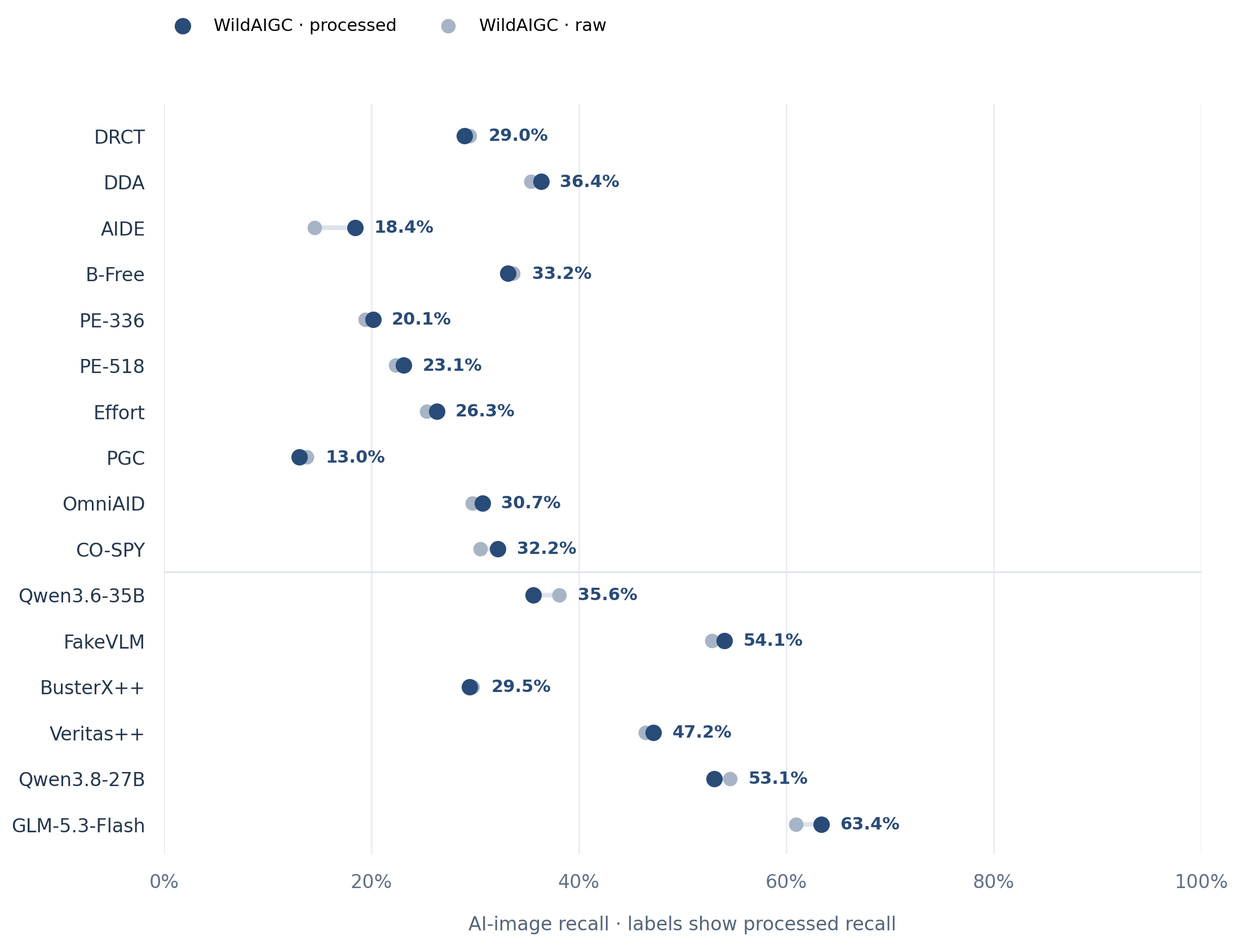
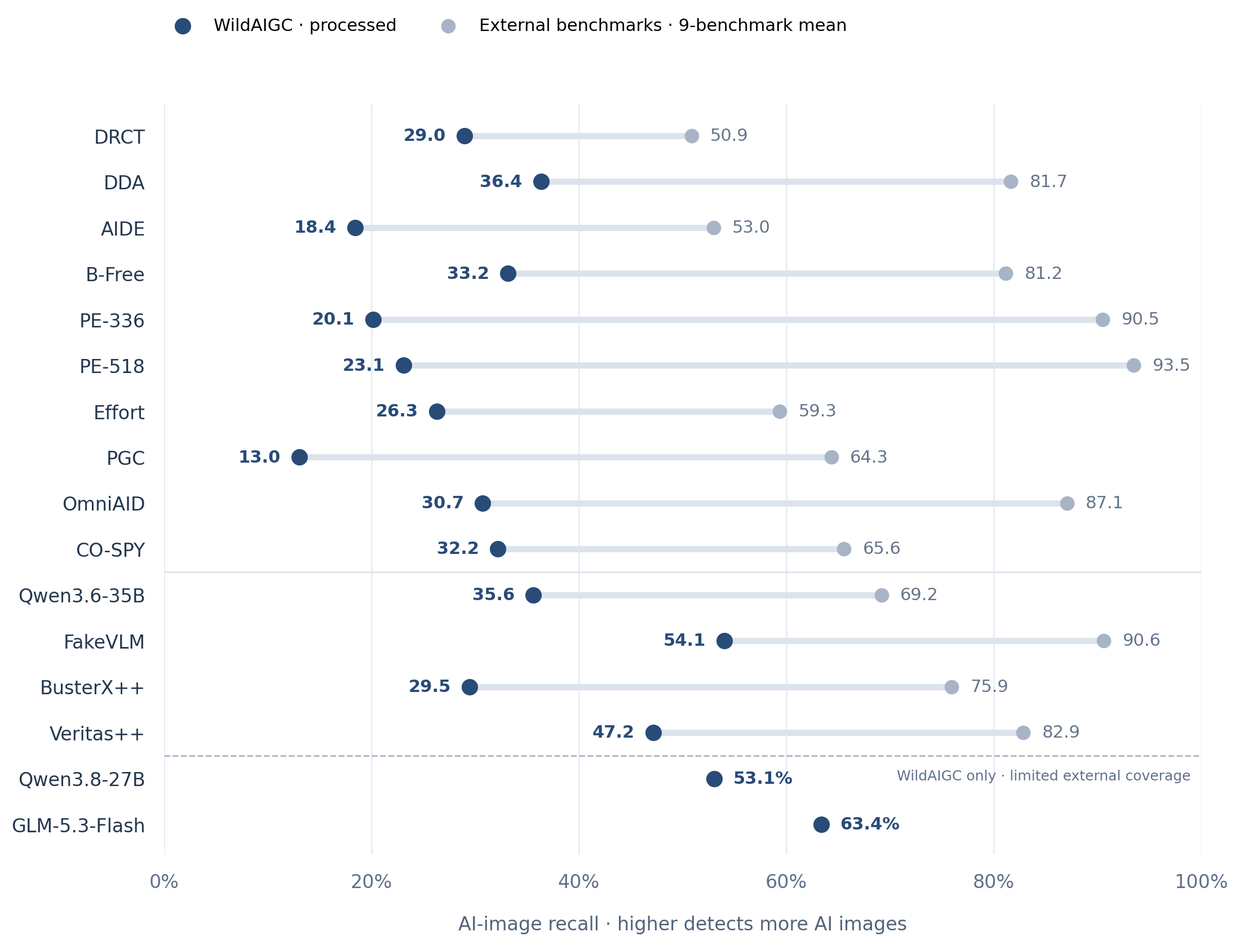
Restore external comparisons for models with shared benchmark coverage

diff --git a/index.html b/index.html
@@ -2,5 +2,5 @@
 <html lang="en"><head><meta charset="utf-8"><meta name="viewport" content="width=device-width,initial-scale=1"><meta name="description" content="WildAIGC-Bench: 407 human-reviewed AI-generated and edited images from real-world online circulation, with evidence-linked metadata, raw and cropped versions, and detector evaluations."><meta name="theme-color" content="#344b70"><title>WildAIGC-Bench · A Hard In-the-Wild AIGC Detection Benchmark</title><link rel="stylesheet" href="./style.css?v=20261013h"><script src="./app.js?v=20261013h" defer></script></head><body>
 <a class="skip-link" href="#overview">Skip to content</a>
 <header class="nav"><a class="brand" href="#top"><span class="brand-mark" aria-hidden="true">W<span>AI</span></span>WildAIGC-Bench</a><nav aria-label="Main navigation"><a href="#dataset">Examples</a><a href="#evaluation">Results</a><a href="#construction">Construction</a><a href="#statistics">Statistics</a><a class="nav-resource" href="#resources">Resources ↗</a></nav></header>
-<main id="top"><section class="hero"><div class="eyebrow"><span class="status-dot"></span> VERSION 1.0 · 407 HUMAN-REVIEWED IMAGES</div><h1>WildAIGC-Bench</h1><p class="hero-subtitle">AI images behind real news events and online claims.<br>A hard test for today’s detectors.</p><p class="hero-copy">AI-generated and edited images from real news events and online claims, where fabricated content can mislead, enable scams or fuel public controversy. Human-confirmed labels and real circulation conditions make this a challenging test for image detectors.</p><div class="actions"><a class="button primary" href="https://huggingface.co/datasets/yuzj1997yzj/WildAIGC-Bench" target="_blank" rel="noopener noreferrer">Dataset on Hugging Face ↗</a><a class="button" href="https://github.com/YuZijian/WildAIGC-Bench" target="_blank" rel="noopener noreferrer">GitHub ↗</a><button class="button disabled" disabled>Technical report <span>Coming soon</span></button></div><p class="release-status">Dataset publicly available · Technical report in preparation</p></section><section id="overview" class="section overview concise-overview"><div class="benchmark-highlights"><article><span class="highlight-index">REAL-WORLD RISKS</span><h3>Real events, real-world risks</h3><p>AI imagery tied to real news events and online claims, with the potential to mislead, enable scams or fuel public controversy. The collection focuses on consequential fakes, rather than showcases of image-generation capability.</p></article><article><span class="highlight-index">VERIFIED AI LABELS</span><h3>Human-verified, evidence-supported</h3><p>Every image is manually confirmed as AI-generated or edited, supported by creator disclosures, visible generation marks, detected platform watermarks or documented fact-check evidence of AI involvement.</p></article><article><span class="highlight-index">REAL PROPAGATION EFFECTS</span><h3>Real circulation, complex degradation</h3><p>The collection captures complex degradation from actual web and social-media circulation, including compression, screen capture and rephotography. These real propagation conditions present a challenging test for current detectors.</p><a class="highlight-results" href="#evaluation">Explore the results ↗</a></article></div></section><section class="section" id="dataset"><div class="section-label">01 / EXAMPLES</div><div class="section-heading"><h2>Real examples from online circulation.</h2><p>Processed examples from the collection. Detectors receive images alone; source links support human verification.</p></div><div class="gallery-toolbar"><p>Six illustrative examples · processed images · click to enlarge</p></div><div class="sample-grid"><article class="sample" data-sample="img_0fe24cc6e96245b8"><button class="sample-open" data-open="img_0fe24cc6e96245b8" aria-label="View Song Yuqi retail poster in full size"><img src="./assets/img_0fe24cc6e96245b8-processed.png" alt="Human-labeled AIGC sample: Song Yuqi retail poster" loading="lazy"><span class="zoom-hint">View larger ↗</span></button><div class="sample-copy"><span class="tag">Poster / local-edit claim</span><h3>Song Yuqi retail poster</h3><div class="sample-footer"><a href="https://www.4anet.com/p/01m4csjyqm986pe0gzfwxsfa9d" target="_blank" rel="noopener noreferrer">Source &amp; context ↗</a><span>0fe24cc6</span></div></div></article><article class="sample" data-sample="img_1b3026fd893bf218"><button class="sample-open" data-open="img_1b3026fd893bf218" aria-label="View Courier parcels and a television box in full size"><img src="./assets/img_1b3026fd893bf218-raw.jpg" alt="Human-labeled AIGC sample: Courier parcels and a television box" loading="lazy"><span class="zoom-hint">View larger ↗</span></button><div class="sample-copy"><span class="tag">Everyday scene</span><h3>Courier parcels and a television box</h3><div class="sample-footer"><a href="https://www.creativebloq.com/ai/ai-art/can-you-spot-all-the-clues-that-prove-this-ai-photo-isnt-real" target="_blank" rel="noopener noreferrer">Source &amp; context ↗</a><span>1b3026fd</span></div></div></article><article class="sample" data-sample="img_2bb3885c6b59817a"><button class="sample-open" data-open="img_2bb3885c6b59817a" aria-label="View A locally edited football spectator in full size"><img src="./assets/img_2bb3885c6b59817a-raw.jpg" alt="Human-labeled AIGC sample: A locally edited football spectator" loading="lazy"><span class="zoom-hint">View larger ↗</span></button><div class="sample-copy"><span class="tag">Face replacement</span><h3>A locally edited football spectator</h3><div class="sample-footer"><a href="https://leadstories.com/hoax-alert/2026/06/fact-check-image-altered-with-openai-tools-made-german-soccer-fan-in-the-stands-look-like-adolf-hitler.html" target="_blank" rel="noopener noreferrer">Source &amp; context ↗</a><span>2bb3885c</span></div></div></article><article class="sample" data-sample="img_6cfd077cd16360a7"><button class="sample-open" data-open="img_6cfd077cd16360a7" aria-label="View A fabricated Ronaldo wedding scene in full size"><img src="./assets/img_6cfd077cd16360a7-raw.jpg" alt="Human-labeled AIGC sample: A fabricated Ronaldo wedding scene" loading="lazy"><span class="zoom-hint">View larger ↗</span></button><div class="sample-copy"><span class="tag">Celebrity event</span><h3>A fabricated Ronaldo wedding scene</h3><div class="sample-footer"><a href="https://crhoy.com/entretenimiento/no-caiga-fotos-que-circulan-de-la-boda-de-cristiano-y-georgina-son-ia/" target="_blank" rel="noopener noreferrer">Source &amp; context ↗</a><span>6cfd077c</span></div></div></article><article class="sample" data-sample="img_2662f72eae79741a"><button class="sample-open" data-open="img_2662f72eae79741a" aria-label="View Kenyan recruits in a slogan formation in full size"><img src="./assets/img_2662f72eae79741a-raw.jpg" alt="Human-labeled AIGC sample: Kenyan recruits in a slogan formation" loading="lazy"><span class="zoom-hint">View larger ↗</span></button><div class="sample-copy"><span class="tag">Public-event claim</span><h3>Kenyan recruits in a slogan formation</h3><div class="sample-footer"><a href="https://factcheck.afp.com/doc.afp.com.C79679F" target="_blank" rel="noopener noreferrer">Source &amp; context ↗</a><span>2662f72e</span></div></div></article><article class="sample" data-sample="img_eef641f81db6498b"><button class="sample-open" data-open="img_eef641f81db6498b" aria-label="View A purported Beijing drone collection queue in full size"><img src="./assets/img_eef641f81db6498b-raw.jpg" alt="Human-labeled AIGC sample: A purported Beijing drone collection queue" loading="lazy"><span class="zoom-hint">View larger ↗</span></button><div class="sample-copy"><span class="tag">Urban scene</span><h3>A purported Beijing drone collection queue</h3><div class="sample-footer"><a href="https://factcheck.afp.com/doc.afp.com.C98N6CQ" target="_blank" rel="noopener noreferrer">Source &amp; context ↗</a><span>eef641f8</span></div></div></article></div><p class="caption">Both versions are available in the large-image viewer. Five of these examples are unchanged originals; raw and processed are identical. The retail poster has a manually cropped processed version. Labels reflect human release decisions; source evidence and its limitations remain documented.</p><div class="version-grid"><article class="version raw"><span class="tag">RAW</span><h3>The acquired online file.</h3><p>Original collected bytes, including any existing comments, platform interfaces, identifiers, captions or generation marks. An acquired online file is not necessarily the generator’s earliest output.</p></article><article class="version processed"><span class="tag">PROCESSED</span><h3>The region under examination.</h3><p>Human-selected rectangular crops focus on the target image and remove surrounding comments, generation watermarks, platform identifiers or other cues where cropping permits. No inpainting, enhancement or resizing.</p></article></div><div class="inline-note"><strong>All 407 images were manually checked for crop suitability.</strong> Target regions were cropped where needed; otherwise the original image was retained. Crops are pixel-exact regions from raw, saved losslessly. Uncropped raw and processed files are byte-identical. Some cues can remain; processed does not mean completely free of leakage.</div></section><section class="section" id="evaluation"><div class="section-label">02 / RESULTS</div><div class="section-heading"><h2>A revealing test for today’s detectors.</h2><p>Across the evaluated detectors, the highest processed recall is <strong>63.39%</strong>. </p></div><p class="small-note">Results reflect each model’s evaluated configuration and decision rule. Higher recall alone does not imply better overall detection performance; see the <a href="https://github.com/YuZijian/WildAIGC-Bench/blob/main/docs/detailed-results.md">external real-image FPR results</a>.</p><figure class="comparison-figure"><img src="./assets/recall_overview.svg?v=20261014-api" width="1260" height="900" alt="Raw and processed AI-image recall on WildAIGC-Bench." loading="lazy"><figcaption>Raw and processed recall on the same 407 AI images. Unknown outputs count as misses; higher recall indicates more AI images detected.</figcaption></figure><div class="results-heading"><h3>WildAIGC-Bench · 407 AI images</h3></div><div class="table-scroll" tabindex="0"><table id="wildTable"><thead><tr><th scope="col">Method</th><th scope="col">Raw Recall</th><th scope="col">Processed Recall</th></tr></thead><tbody><tr class="method-group-row"><th colspan="3" scope="rowgroup"><span class="method-group-label">Classification models</span></th></tr><tr><th scope="row">DRCT</th><td>0.2948</td><td>0.2899</td></tr><tr><th scope="row">DDA</th><td>0.3538</td><td>0.3636</td></tr><tr><th scope="row">AIDE</th><td>0.1450</td><td>0.1843</td></tr><tr><th scope="row">B-Free</th><td>0.3366</td><td>0.3317</td></tr><tr><th scope="row">PE-336</th><td>0.1941</td><td>0.2015</td></tr><tr><th scope="row">PE-518</th><td>0.2236</td><td>0.2310</td></tr><tr><th scope="row">Effort</th><td>0.2531</td><td>0.2629</td></tr><tr><th scope="row">PGC</th><td>0.1376</td><td>0.1302</td></tr><tr><th scope="row">OmniAID</th><td>0.2973</td><td>0.3071</td></tr><tr><th scope="row">CO-SPY</th><td>0.3047</td><td>0.3219</td></tr><tr class="method-group-row"><th colspan="3" scope="rowgroup"><span class="method-group-label">Multimodal large language models</span></th></tr><tr><th scope="row">Qwen3.6-35B</th><td>0.3808</td><td>0.3563</td></tr><tr><th scope="row">FakeVLM</th><td>0.5283</td><td>0.5405</td></tr><tr><th scope="row">BusterX++</th><td>0.2973</td><td>0.2948</td></tr><tr><th scope="row">Veritas++</th><td>0.4644</td><td>0.4717</td></tr><tr><th scope="row">Qwen3.8-27B</th><td>0.5455</td><td>0.5307</td></tr><tr><th scope="row">GLM-5.3-Flash</th><td>0.6093</td><td>0.6339</td></tr></tbody></table></div><p class="small-note">Recall is the fraction of AI images detected; unknowns count as misses. This positive-only set does not measure real-image false positives.</p><p class="small-note"><strong>Our PE baselines:</strong> PE-Core-Large (Perception Encoder) + classification head, trained by our team at 336 × 336 and 518 × 518 input resolution. Details will appear in the technical report.</p><details class="supplement"><summary>Explore cross-benchmark recall</summary><div class="table-scroll" tabindex="0"><table id="crossTable"><thead><tr class="benchmark-groups"><th class="method-heading" rowspan="2" scope="col">Method</th><th class="benchmark-group" colspan="3" scope="colgroup">Standard benchmarks</th><th class="benchmark-group group-start" colspan="6" scope="colgroup">In-the-Wild benchmarks</th><th class="benchmark-group group-start own-benchmark" colspan="1" scope="colgroup">WildAIGC<br/><span>In-the-Wild · ours</span></th><th class="macro-column" rowspan="2" scope="col">Common-set mean<br><span>9 benchmarks ↑</span></br></th></tr><tr><th scope="col">EvalGen</th><th scope="col">synthbuster</th><th scope="col">UnivFD</th><th class="group-start" scope="col">AIGIBench</th><th scope="col">Chameleon</th><th scope="col">SynthWildx</th><th scope="col">WildRF</th><th scope="col">RRDataset</th><th scope="col">ITW-SM</th><th class="group-start own-benchmark" scope="col">WildAIGC<br/>processed</th></tr></thead><tbody><tr class="method-group-row"><th colspan="12" scope="rowgroup"><span class="method-group-label">Classification models</span></th></tr><tr><th scope="row">DRCT</th><td>0.5093</td><td>0.5593</td><td>0.2196</td><td>0.5650</td><td>0.5818</td><td>0.5975</td><td>0.5838</td><td>0.3627</td><td>0.5982</td><td>0.2899</td><td class="macro-column">0.5086</td></tr><tr><th scope="row">DDA</th><td>0.9685</td><td>0.9757</td><td>0.8359</td><td>0.7445</td><td>0.7078</td><td>0.9291</td><td>0.8724</td><td>0.4700</td><td>0.8454</td><td>0.3636</td><td class="macro-column">0.8166</td></tr><tr><th scope="row">AIDE</th><td>0.5626</td><td>0.6527</td><td>0.8101</td><td>0.7090</td><td>0.3398</td><td>0.4874</td><td>0.5514</td><td>0.2238</td><td>0.4308</td><td>0.1843</td><td class="macro-column">0.5297</td></tr><tr><th scope="row">B-Free</th><td>0.9128</td><td>0.9423</td><td>0.8266</td><td>0.7189</td><td>0.6201</td><td>0.9852</td><td>0.9319</td><td>0.4786</td><td>0.8886</td><td>0.3317</td><td class="macro-column">0.8117</td></tr><tr><th scope="row">PE-336</th><td>0.9996</td><td>0.9653</td><td>0.9945</td><td>0.9700</td><td>0.7606</td><td>0.9062</td><td>0.9654</td><td>0.7797</td><td>0.8028</td><td>0.2015</td><td class="macro-column">0.9049</td></tr><tr><th scope="row">PE-518</th><td>0.9997</td><td>0.9973</td><td>0.9942</td><td>0.9609</td><td>0.8216</td><td>0.9468</td><td>0.9881</td><td>0.8229</td><td>0.8840</td><td>0.2310</td><td class="macro-column">0.9351</td></tr><tr><th scope="row">Effort</th><td>0.5438</td><td>0.9703</td><td>0.9120</td><td>0.8326</td><td>0.5191</td><td>0.3471</td><td>0.6930</td><td>0.1510</td><td>0.3726</td><td>0.2629</td><td class="macro-column">0.5935</td></tr><tr><th scope="row">PGC</th><td>0.5719</td><td>0.8107</td><td>0.9199</td><td>0.8100</td><td>0.1603</td><td>0.7105</td><td>0.8843</td><td>0.2745</td><td>0.6492</td><td>0.1302</td><td class="macro-column">0.6435</td></tr><tr><th scope="row">OmniAID</th><td>0.9721</td><td>0.8343</td><td>0.8077</td><td>0.7115</td><td>0.9086</td><td>0.9380</td><td>0.9859</td><td>0.7287</td><td>0.9504</td><td>0.3071</td><td class="macro-column">0.8708</td></tr><tr><th scope="row">CO-SPY</th><td>0.9268</td><td>0.7553</td><td>0.4244</td><td>0.6162</td><td>0.5219</td><td>0.7378</td><td>0.7568</td><td>0.6433</td><td>0.5182</td><td>0.3219</td><td class="macro-column">0.6556</td></tr><tr class="method-group-row"><th colspan="12" scope="rowgroup"><span class="method-group-label">Multimodal large language models</span></th></tr><tr><th scope="row">Qwen3.6-35B <sup>†</sup></th><td>0.8775</td><td>0.5157</td><td>0.5330</td><td>0.4605</td><td>0.5769</td><td>0.8656</td><td>0.9157</td><td>0.5510</td><td>0.9306</td><td>0.3563</td><td class="macro-column">0.6918</td></tr><tr><th scope="row">FakeVLM <sup>†</sup></th><td>0.9900</td><td>0.9587</td><td>0.9270</td><td>0.9409</td><td>0.9953</td><td>0.9490</td><td>0.9276</td><td>0.5870</td><td>0.8810</td><td>0.5405</td><td class="macro-column">0.9063</td></tr><tr><th scope="row">BusterX++ <sup>†</sup></th><td>0.9290</td><td>0.8103</td><td>0.5370</td><td>0.5465</td><td>0.6142</td><td>0.9313</td><td>0.9589</td><td>0.5640</td><td>0.9422</td><td>0.2948</td><td class="macro-column">0.7593</td></tr><tr><th scope="row">Veritas++ <sup>†</sup></th><td>0.9890</td><td>0.8300</td><td>0.4430</td><td>0.6977</td><td>0.9324</td><td>0.9321</td><td>0.9741</td><td>0.7050</td><td>0.9540</td><td>0.4717</td><td class="macro-column">0.8286</td></tr></tbody></table></div><p>Common-set mean: EvalGen, synthbuster, UnivFD, AIGIBench, Chameleon, SynthWildx, WildRF, RRDataset and ITW-SM, equally weighted. † Fixed subsets on large dimensions; full evaluation on smaller dimensions. Blank cells indicate unavailable results.</p></details><p class="detail-link"><a href="https://github.com/YuZijian/WildAIGC-Bench/blob/main/docs/evaluation.md">Evaluation protocol ↗</a> <span>·</span> <a href="https://github.com/YuZijian/WildAIGC-Bench/blob/main/docs/detailed-results.md">Additional results and crop analysis ↗</a></p></section><section class="section" id="construction"><div class="section-label">03 / CONSTRUCTION</div><div class="section-heading"><h2>From online circulation<br>to a curated benchmark.</h2><p>Each image is manually reviewed against its source context and AI evidence. Only confirmed cases are retained; general-purpose detector outputs are not used for selection.</p></div><figure class="pipeline-figure"><img src="./assets/construction_illustrated.png" width="2172" height="724" alt="Illustrated workflow: discover online events, trace evidence, deduplicate, human review, and freeze a release with raw and processed files." loading="lazy"></figure><p class="detail-link"><a href="https://github.com/YuZijian/WildAIGC-Bench/blob/main/docs/dataset.md">Read the construction protocol ↗</a></p></section><section class="section" id="statistics"><div class="section-label">04 / DATA PROFILE</div><div class="section-heading"><h2>A closer look at the collection.</h2><p>407 images from recorded news and fact-check sources. A curated challenge set, not a representative sample of the entire internet.</p></div><div class="compact-stats"><figure><img src="./assets/resolution_distribution.svg" alt="Raw and processed resolution distributions for 407 images" loading="lazy"><figcaption>Image dimensions · raw and processed.</figcaption></figure><figure><img src="./assets/source_website_distribution.svg" alt="Recorded source website distribution" loading="lazy"><figcaption>Recorded report websites, not necessarily original social platforms.</figcaption></figure></div></section><section class="section" id="resources"><div class="section-label">05 / RESOURCES</div><div class="section-heading"><h2>Put your detector to the test.</h2><p>Data, documentation and the forthcoming technical report.</p></div><div class="resource-grid"><article><span class="resource-type">DATASET</span><h3>WildAIGC-Bench v1.0</h3><p>407 images with raw / processed versions, labels and source references.</p><a href="https://huggingface.co/datasets/yuzj1997yzj/WildAIGC-Bench" target="_blank" rel="noopener noreferrer">Hugging Face ↗</a><small>Publicly available</small></article><article><span class="resource-type">TECHNICAL REPORT</span><h3>Construction &amp; evaluation</h3><p>Full methodology, detector settings and analysis.</p><span class="pending">In preparation</span></article><article><span class="resource-type">GITHUB</span><h3>Documentation &amp; results</h3><p>Usage instructions, evaluation protocol and additional results.</p><a href="https://github.com/YuZijian/WildAIGC-Bench" target="_blank" rel="noopener noreferrer">Explore the repository ↗</a></article></div><p class="small-note">Until the report is published, cite WildAIGC-Bench v1.0 and the exact dataset revision. Third-party image rights remain with their respective holders; see the dataset LICENSE. Corrections can be raised through repository issues.</p></section></main>
+<main id="top"><section class="hero"><div class="eyebrow"><span class="status-dot"></span> VERSION 1.0 · 407 HUMAN-REVIEWED IMAGES</div><h1>WildAIGC-Bench</h1><p class="hero-subtitle">AI images behind real news events and online claims.<br>A hard test for today’s detectors.</p><p class="hero-copy">AI-generated and edited images from real news events and online claims, where fabricated content can mislead, enable scams or fuel public controversy. Human-confirmed labels and real circulation conditions make this a challenging test for image detectors.</p><div class="actions"><a class="button primary" href="https://huggingface.co/datasets/yuzj1997yzj/WildAIGC-Bench" target="_blank" rel="noopener noreferrer">Dataset on Hugging Face ↗</a><a class="button" href="https://github.com/YuZijian/WildAIGC-Bench" target="_blank" rel="noopener noreferrer">GitHub ↗</a><button class="button disabled" disabled>Technical report <span>Coming soon</span></button></div><p class="release-status">Dataset publicly available · Technical report in preparation</p></section><section id="overview" class="section overview concise-overview"><div class="benchmark-highlights"><article><span class="highlight-index">REAL-WORLD RISKS</span><h3>Real events, real-world risks</h3><p>AI imagery tied to real news events and online claims, with the potential to mislead, enable scams or fuel public controversy. The collection focuses on consequential fakes, rather than showcases of image-generation capability.</p></article><article><span class="highlight-index">VERIFIED AI LABELS</span><h3>Human-verified, evidence-supported</h3><p>Every image is manually confirmed as AI-generated or edited, supported by creator disclosures, visible generation marks, detected platform watermarks or documented fact-check evidence of AI involvement.</p></article><article><span class="highlight-index">REAL PROPAGATION EFFECTS</span><h3>Real circulation, complex degradation</h3><p>The collection captures complex degradation from actual web and social-media circulation, including compression, screen capture and rephotography. These real propagation conditions present a challenging test for current detectors.</p><a class="highlight-results" href="#evaluation">Explore the results ↗</a></article></div></section><section class="section" id="dataset"><div class="section-label">01 / EXAMPLES</div><div class="section-heading"><h2>Real examples from online circulation.</h2><p>Processed examples from the collection. Detectors receive images alone; source links support human verification.</p></div><div class="gallery-toolbar"><p>Six illustrative examples · processed images · click to enlarge</p></div><div class="sample-grid"><article class="sample" data-sample="img_0fe24cc6e96245b8"><button class="sample-open" data-open="img_0fe24cc6e96245b8" aria-label="View Song Yuqi retail poster in full size"><img src="./assets/img_0fe24cc6e96245b8-processed.png" alt="Human-labeled AIGC sample: Song Yuqi retail poster" loading="lazy"><span class="zoom-hint">View larger ↗</span></button><div class="sample-copy"><span class="tag">Poster / local-edit claim</span><h3>Song Yuqi retail poster</h3><div class="sample-footer"><a href="https://www.4anet.com/p/01m4csjyqm986pe0gzfwxsfa9d" target="_blank" rel="noopener noreferrer">Source &amp; context ↗</a><span>0fe24cc6</span></div></div></article><article class="sample" data-sample="img_1b3026fd893bf218"><button class="sample-open" data-open="img_1b3026fd893bf218" aria-label="View Courier parcels and a television box in full size"><img src="./assets/img_1b3026fd893bf218-raw.jpg" alt="Human-labeled AIGC sample: Courier parcels and a television box" loading="lazy"><span class="zoom-hint">View larger ↗</span></button><div class="sample-copy"><span class="tag">Everyday scene</span><h3>Courier parcels and a television box</h3><div class="sample-footer"><a href="https://www.creativebloq.com/ai/ai-art/can-you-spot-all-the-clues-that-prove-this-ai-photo-isnt-real" target="_blank" rel="noopener noreferrer">Source &amp; context ↗</a><span>1b3026fd</span></div></div></article><article class="sample" data-sample="img_2bb3885c6b59817a"><button class="sample-open" data-open="img_2bb3885c6b59817a" aria-label="View A locally edited football spectator in full size"><img src="./assets/img_2bb3885c6b59817a-raw.jpg" alt="Human-labeled AIGC sample: A locally edited football spectator" loading="lazy"><span class="zoom-hint">View larger ↗</span></button><div class="sample-copy"><span class="tag">Face replacement</span><h3>A locally edited football spectator</h3><div class="sample-footer"><a href="https://leadstories.com/hoax-alert/2026/06/fact-check-image-altered-with-openai-tools-made-german-soccer-fan-in-the-stands-look-like-adolf-hitler.html" target="_blank" rel="noopener noreferrer">Source &amp; context ↗</a><span>2bb3885c</span></div></div></article><article class="sample" data-sample="img_6cfd077cd16360a7"><button class="sample-open" data-open="img_6cfd077cd16360a7" aria-label="View A fabricated Ronaldo wedding scene in full size"><img src="./assets/img_6cfd077cd16360a7-raw.jpg" alt="Human-labeled AIGC sample: A fabricated Ronaldo wedding scene" loading="lazy"><span class="zoom-hint">View larger ↗</span></button><div class="sample-copy"><span class="tag">Celebrity event</span><h3>A fabricated Ronaldo wedding scene</h3><div class="sample-footer"><a href="https://crhoy.com/entretenimiento/no-caiga-fotos-que-circulan-de-la-boda-de-cristiano-y-georgina-son-ia/" target="_blank" rel="noopener noreferrer">Source &amp; context ↗</a><span>6cfd077c</span></div></div></article><article class="sample" data-sample="img_2662f72eae79741a"><button class="sample-open" data-open="img_2662f72eae79741a" aria-label="View Kenyan recruits in a slogan formation in full size"><img src="./assets/img_2662f72eae79741a-raw.jpg" alt="Human-labeled AIGC sample: Kenyan recruits in a slogan formation" loading="lazy"><span class="zoom-hint">View larger ↗</span></button><div class="sample-copy"><span class="tag">Public-event claim</span><h3>Kenyan recruits in a slogan formation</h3><div class="sample-footer"><a href="https://factcheck.afp.com/doc.afp.com.C79679F" target="_blank" rel="noopener noreferrer">Source &amp; context ↗</a><span>2662f72e</span></div></div></article><article class="sample" data-sample="img_eef641f81db6498b"><button class="sample-open" data-open="img_eef641f81db6498b" aria-label="View A purported Beijing drone collection queue in full size"><img src="./assets/img_eef641f81db6498b-raw.jpg" alt="Human-labeled AIGC sample: A purported Beijing drone collection queue" loading="lazy"><span class="zoom-hint">View larger ↗</span></button><div class="sample-copy"><span class="tag">Urban scene</span><h3>A purported Beijing drone collection queue</h3><div class="sample-footer"><a href="https://factcheck.afp.com/doc.afp.com.C98N6CQ" target="_blank" rel="noopener noreferrer">Source &amp; context ↗</a><span>eef641f8</span></div></div></article></div><p class="caption">Both versions are available in the large-image viewer. Five of these examples are unchanged originals; raw and processed are identical. The retail poster has a manually cropped processed version. Labels reflect human release decisions; source evidence and its limitations remain documented.</p><div class="version-grid"><article class="version raw"><span class="tag">RAW</span><h3>The acquired online file.</h3><p>Original collected bytes, including any existing comments, platform interfaces, identifiers, captions or generation marks. An acquired online file is not necessarily the generator’s earliest output.</p></article><article class="version processed"><span class="tag">PROCESSED</span><h3>The region under examination.</h3><p>Human-selected rectangular crops focus on the target image and remove surrounding comments, generation watermarks, platform identifiers or other cues where cropping permits. No inpainting, enhancement or resizing.</p></article></div><div class="inline-note"><strong>All 407 images were manually checked for crop suitability.</strong> Target regions were cropped where needed; otherwise the original image was retained. Crops are pixel-exact regions from raw, saved losslessly. Uncropped raw and processed files are byte-identical. Some cues can remain; processed does not mean completely free of leakage.</div></section><section class="section" id="evaluation"><div class="section-label">02 / RESULTS</div><div class="section-heading"><h2>A revealing test for today’s detectors.</h2><p>Across the evaluated detectors, the highest processed recall is <strong>63.39%</strong>. </p></div><p class="small-note">Results reflect each model’s evaluated configuration and decision rule. Higher recall alone does not imply better overall detection performance; see the <a href="https://github.com/YuZijian/WildAIGC-Bench/blob/main/docs/detailed-results.md">external real-image FPR results</a>.</p><figure class="comparison-figure"><img src="./assets/recall_overview.svg?v=20261014-coverage" width="1260" height="900" alt="WildAIGC processed recall and external benchmark means where available." loading="lazy"><figcaption>WildAIGC processed recall versus the same nine-benchmark external mean for methods with full coverage. Qwen3.8-27B and GLM-5.3-Flash show WildAIGC results only; no external mean or gap is inferred.</figcaption></figure><div class="results-heading"><h3>WildAIGC-Bench · 407 AI images</h3></div><div class="table-scroll" tabindex="0"><table id="wildTable"><thead><tr><th scope="col">Method</th><th scope="col">Raw Recall</th><th scope="col">Processed Recall</th></tr></thead><tbody><tr class="method-group-row"><th colspan="3" scope="rowgroup"><span class="method-group-label">Classification models</span></th></tr><tr><th scope="row">DRCT</th><td>0.2948</td><td>0.2899</td></tr><tr><th scope="row">DDA</th><td>0.3538</td><td>0.3636</td></tr><tr><th scope="row">AIDE</th><td>0.1450</td><td>0.1843</td></tr><tr><th scope="row">B-Free</th><td>0.3366</td><td>0.3317</td></tr><tr><th scope="row">PE-336</th><td>0.1941</td><td>0.2015</td></tr><tr><th scope="row">PE-518</th><td>0.2236</td><td>0.2310</td></tr><tr><th scope="row">Effort</th><td>0.2531</td><td>0.2629</td></tr><tr><th scope="row">PGC</th><td>0.1376</td><td>0.1302</td></tr><tr><th scope="row">OmniAID</th><td>0.2973</td><td>0.3071</td></tr><tr><th scope="row">CO-SPY</th><td>0.3047</td><td>0.3219</td></tr><tr class="method-group-row"><th colspan="3" scope="rowgroup"><span class="method-group-label">Multimodal large language models</span></th></tr><tr><th scope="row">Qwen3.6-35B</th><td>0.3808</td><td>0.3563</td></tr><tr><th scope="row">FakeVLM</th><td>0.5283</td><td>0.5405</td></tr><tr><th scope="row">BusterX++</th><td>0.2973</td><td>0.2948</td></tr><tr><th scope="row">Veritas++</th><td>0.4644</td><td>0.4717</td></tr><tr><th scope="row">Qwen3.8-27B</th><td>0.5455</td><td>0.5307</td></tr><tr><th scope="row">GLM-5.3-Flash</th><td>0.6093</td><td>0.6339</td></tr></tbody></table></div><p class="small-note">Recall is the fraction of AI images detected; unknowns count as misses. This positive-only set does not measure real-image false positives.</p><p class="small-note"><strong>Our PE baselines:</strong> PE-Core-Large (Perception Encoder) + classification head, trained by our team at 336 × 336 and 518 × 518 input resolution. Details will appear in the technical report.</p><details class="supplement"><summary>Explore cross-benchmark recall</summary><div class="table-scroll" tabindex="0"><table id="crossTable"><thead><tr class="benchmark-groups"><th class="method-heading" rowspan="2" scope="col">Method</th><th class="benchmark-group" colspan="3" scope="colgroup">Standard benchmarks</th><th class="benchmark-group group-start" colspan="6" scope="colgroup">In-the-Wild benchmarks</th><th class="benchmark-group group-start own-benchmark" colspan="1" scope="colgroup">WildAIGC<br/><span>In-the-Wild · ours</span></th><th class="macro-column" rowspan="2" scope="col">Common-set mean<br><span>9 benchmarks ↑</span></br></th></tr><tr><th scope="col">EvalGen</th><th scope="col">synthbuster</th><th scope="col">UnivFD</th><th class="group-start" scope="col">AIGIBench</th><th scope="col">Chameleon</th><th scope="col">SynthWildx</th><th scope="col">WildRF</th><th scope="col">RRDataset</th><th scope="col">ITW-SM</th><th class="group-start own-benchmark" scope="col">WildAIGC<br/>processed</th></tr></thead><tbody><tr class="method-group-row"><th colspan="12" scope="rowgroup"><span class="method-group-label">Classification models</span></th></tr><tr><th scope="row">DRCT</th><td>0.5093</td><td>0.5593</td><td>0.2196</td><td>0.5650</td><td>0.5818</td><td>0.5975</td><td>0.5838</td><td>0.3627</td><td>0.5982</td><td>0.2899</td><td class="macro-column">0.5086</td></tr><tr><th scope="row">DDA</th><td>0.9685</td><td>0.9757</td><td>0.8359</td><td>0.7445</td><td>0.7078</td><td>0.9291</td><td>0.8724</td><td>0.4700</td><td>0.8454</td><td>0.3636</td><td class="macro-column">0.8166</td></tr><tr><th scope="row">AIDE</th><td>0.5626</td><td>0.6527</td><td>0.8101</td><td>0.7090</td><td>0.3398</td><td>0.4874</td><td>0.5514</td><td>0.2238</td><td>0.4308</td><td>0.1843</td><td class="macro-column">0.5297</td></tr><tr><th scope="row">B-Free</th><td>0.9128</td><td>0.9423</td><td>0.8266</td><td>0.7189</td><td>0.6201</td><td>0.9852</td><td>0.9319</td><td>0.4786</td><td>0.8886</td><td>0.3317</td><td class="macro-column">0.8117</td></tr><tr><th scope="row">PE-336</th><td>0.9996</td><td>0.9653</td><td>0.9945</td><td>0.9700</td><td>0.7606</td><td>0.9062</td><td>0.9654</td><td>0.7797</td><td>0.8028</td><td>0.2015</td><td class="macro-column">0.9049</td></tr><tr><th scope="row">PE-518</th><td>0.9997</td><td>0.9973</td><td>0.9942</td><td>0.9609</td><td>0.8216</td><td>0.9468</td><td>0.9881</td><td>0.8229</td><td>0.8840</td><td>0.2310</td><td class="macro-column">0.9351</td></tr><tr><th scope="row">Effort</th><td>0.5438</td><td>0.9703</td><td>0.9120</td><td>0.8326</td><td>0.5191</td><td>0.3471</td><td>0.6930</td><td>0.1510</td><td>0.3726</td><td>0.2629</td><td class="macro-column">0.5935</td></tr><tr><th scope="row">PGC</th><td>0.5719</td><td>0.8107</td><td>0.9199</td><td>0.8100</td><td>0.1603</td><td>0.7105</td><td>0.8843</td><td>0.2745</td><td>0.6492</td><td>0.1302</td><td class="macro-column">0.6435</td></tr><tr><th scope="row">OmniAID</th><td>0.9721</td><td>0.8343</td><td>0.8077</td><td>0.7115</td><td>0.9086</td><td>0.9380</td><td>0.9859</td><td>0.7287</td><td>0.9504</td><td>0.3071</td><td class="macro-column">0.8708</td></tr><tr><th scope="row">CO-SPY</th><td>0.9268</td><td>0.7553</td><td>0.4244</td><td>0.6162</td><td>0.5219</td><td>0.7378</td><td>0.7568</td><td>0.6433</td><td>0.5182</td><td>0.3219</td><td class="macro-column">0.6556</td></tr><tr class="method-group-row"><th colspan="12" scope="rowgroup"><span class="method-group-label">Multimodal large language models</span></th></tr><tr><th scope="row">Qwen3.6-35B <sup>†</sup></th><td>0.8775</td><td>0.5157</td><td>0.5330</td><td>0.4605</td><td>0.5769</td><td>0.8656</td><td>0.9157</td><td>0.5510</td><td>0.9306</td><td>0.3563</td><td class="macro-column">0.6918</td></tr><tr><th scope="row">FakeVLM <sup>†</sup></th><td>0.9900</td><td>0.9587</td><td>0.9270</td><td>0.9409</td><td>0.9953</td><td>0.9490</td><td>0.9276</td><td>0.5870</td><td>0.8810</td><td>0.5405</td><td class="macro-column">0.9063</td></tr><tr><th scope="row">BusterX++ <sup>†</sup></th><td>0.9290</td><td>0.8103</td><td>0.5370</td><td>0.5465</td><td>0.6142</td><td>0.9313</td><td>0.9589</td><td>0.5640</td><td>0.9422</td><td>0.2948</td><td class="macro-column">0.7593</td></tr><tr><th scope="row">Veritas++ <sup>†</sup></th><td>0.9890</td><td>0.8300</td><td>0.4430</td><td>0.6977</td><td>0.9324</td><td>0.9321</td><td>0.9741</td><td>0.7050</td><td>0.9540</td><td>0.4717</td><td class="macro-column">0.8286</td></tr></tbody></table></div><p>Common-set mean: EvalGen, synthbuster, UnivFD, AIGIBench, Chameleon, SynthWildx, WildRF, RRDataset and ITW-SM, equally weighted. † Fixed subsets on large dimensions; full evaluation on smaller dimensions. Blank cells indicate unavailable results.</p></details><p class="detail-link"><a href="https://github.com/YuZijian/WildAIGC-Bench/blob/main/docs/evaluation.md">Evaluation protocol ↗</a> <span>·</span> <a href="https://github.com/YuZijian/WildAIGC-Bench/blob/main/docs/detailed-results.md">Additional results and crop analysis ↗</a></p></section><section class="section" id="construction"><div class="section-label">03 / CONSTRUCTION</div><div class="section-heading"><h2>From online circulation<br>to a curated benchmark.</h2><p>Each image is manually reviewed against its source context and AI evidence. Only confirmed cases are retained; general-purpose detector outputs are not used for selection.</p></div><figure class="pipeline-figure"><img src="./assets/construction_illustrated.png" width="2172" height="724" alt="Illustrated workflow: discover online events, trace evidence, deduplicate, human review, and freeze a release with raw and processed files." loading="lazy"></figure><p class="detail-link"><a href="https://github.com/YuZijian/WildAIGC-Bench/blob/main/docs/dataset.md">Read the construction protocol ↗</a></p></section><section class="section" id="statistics"><div class="section-label">04 / DATA PROFILE</div><div class="section-heading"><h2>A closer look at the collection.</h2><p>407 images from recorded news and fact-check sources. A curated challenge set, not a representative sample of the entire internet.</p></div><div class="compact-stats"><figure><img src="./assets/resolution_distribution.svg" alt="Raw and processed resolution distributions for 407 images" loading="lazy"><figcaption>Image dimensions · raw and processed.</figcaption></figure><figure><img src="./assets/source_website_distribution.svg" alt="Recorded source website distribution" loading="lazy"><figcaption>Recorded report websites, not necessarily original social platforms.</figcaption></figure></div></section><section class="section" id="resources"><div class="section-label">05 / RESOURCES</div><div class="section-heading"><h2>Put your detector to the test.</h2><p>Data, documentation and the forthcoming technical report.</p></div><div class="resource-grid"><article><span class="resource-type">DATASET</span><h3>WildAIGC-Bench v1.0</h3><p>407 images with raw / processed versions, labels and source references.</p><a href="https://huggingface.co/datasets/yuzj1997yzj/WildAIGC-Bench" target="_blank" rel="noopener noreferrer">Hugging Face ↗</a><small>Publicly available</small></article><article><span class="resource-type">TECHNICAL REPORT</span><h3>Construction &amp; evaluation</h3><p>Full methodology, detector settings and analysis.</p><span class="pending">In preparation</span></article><article><span class="resource-type">GITHUB</span><h3>Documentation &amp; results</h3><p>Usage instructions, evaluation protocol and additional results.</p><a href="https://github.com/YuZijian/WildAIGC-Bench" target="_blank" rel="noopener noreferrer">Explore the repository ↗</a></article></div><p class="small-note">Until the report is published, cite WildAIGC-Bench v1.0 and the exact dataset revision. Third-party image rights remain with their respective holders; see the dataset LICENSE. Corrections can be raised through repository issues.</p></section></main>
 <footer><a class="brand" href="#top">WildAIGC-Bench</a><span>Real circulation. Human review. Traceable evaluation.</span><a href="#top">Back to top ↑</a></footer><dialog id="sampleDialog" aria-labelledby="dialogTitle"><div class="dialog-header"><div><span id="dialogId" class="dialog-id"></span><h2 id="dialogTitle"></h2></div><button id="closeDialog" class="dialog-close" aria-label="Close image viewer">×</button></div><div class="dialog-toolbar"><span id="dialogStatus"></span><a id="fullImageLink" target="_blank" rel="noopener noreferrer">Open full-resolution file ↗</a></div><div class="dialog-image-wrap"><img id="dialogImage" alt=""></div><div class="dialog-bottom"><span id="dialogDimensions"></span><a id="dialogSource" target="_blank" rel="noopener noreferrer">Source &amp; context ↗</a></div></dialog></body></html>

diff --git a/README.md b/README.md
@@ -40,9 +40,9 @@ The WildAIGC comparison includes Qwen3.8-27B and GLM-5.3-Flash alongside classif
 
 Under real circulation conditions, these images present a clear challenge across the evaluated detectors.
 
-![Raw and processed AI-image recall on WildAIGC-Bench](assets/recall_overview.svg?v=20261014-api)
+![WildAIGC processed recall and external benchmark means where available](assets/recall_overview.svg?v=20261014-coverage)
 
-The figure compares raw and processed recall on the same 407 AI images. The highest processed recall among the displayed configurations is 63.39%. Cross-benchmark tables separately include methods with broad evaluation coverage.
+The figure compares WildAIGC processed recall with the same nine-benchmark external mean for methods with full coverage. Qwen3.8-27B and GLM-5.3-Flash show only WildAIGC scores because their external coverage is limited; no external mean or gap is inferred. The highest displayed processed recall is 63.39%.
 
 **WildAIGC is positive-only.** Higher recall alone does not establish better overall detection performance. Real-image FPR, raw/processed results and supplementary accuracy are available in the [full results](docs/detailed-results.md); see the [evaluation protocol](docs/evaluation.md) for metric definitions and sampling scope.
 
